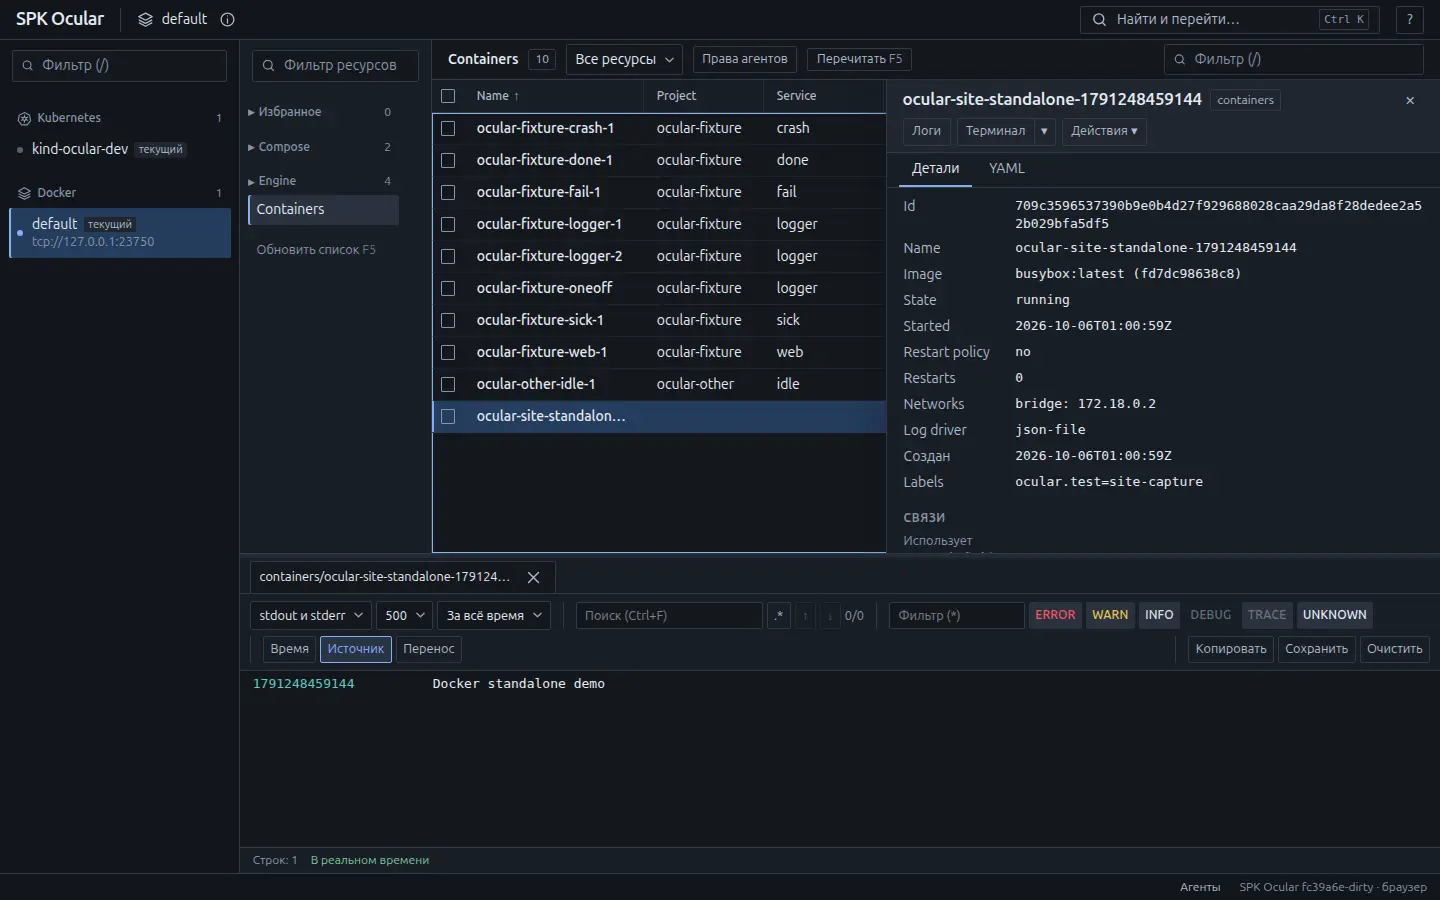
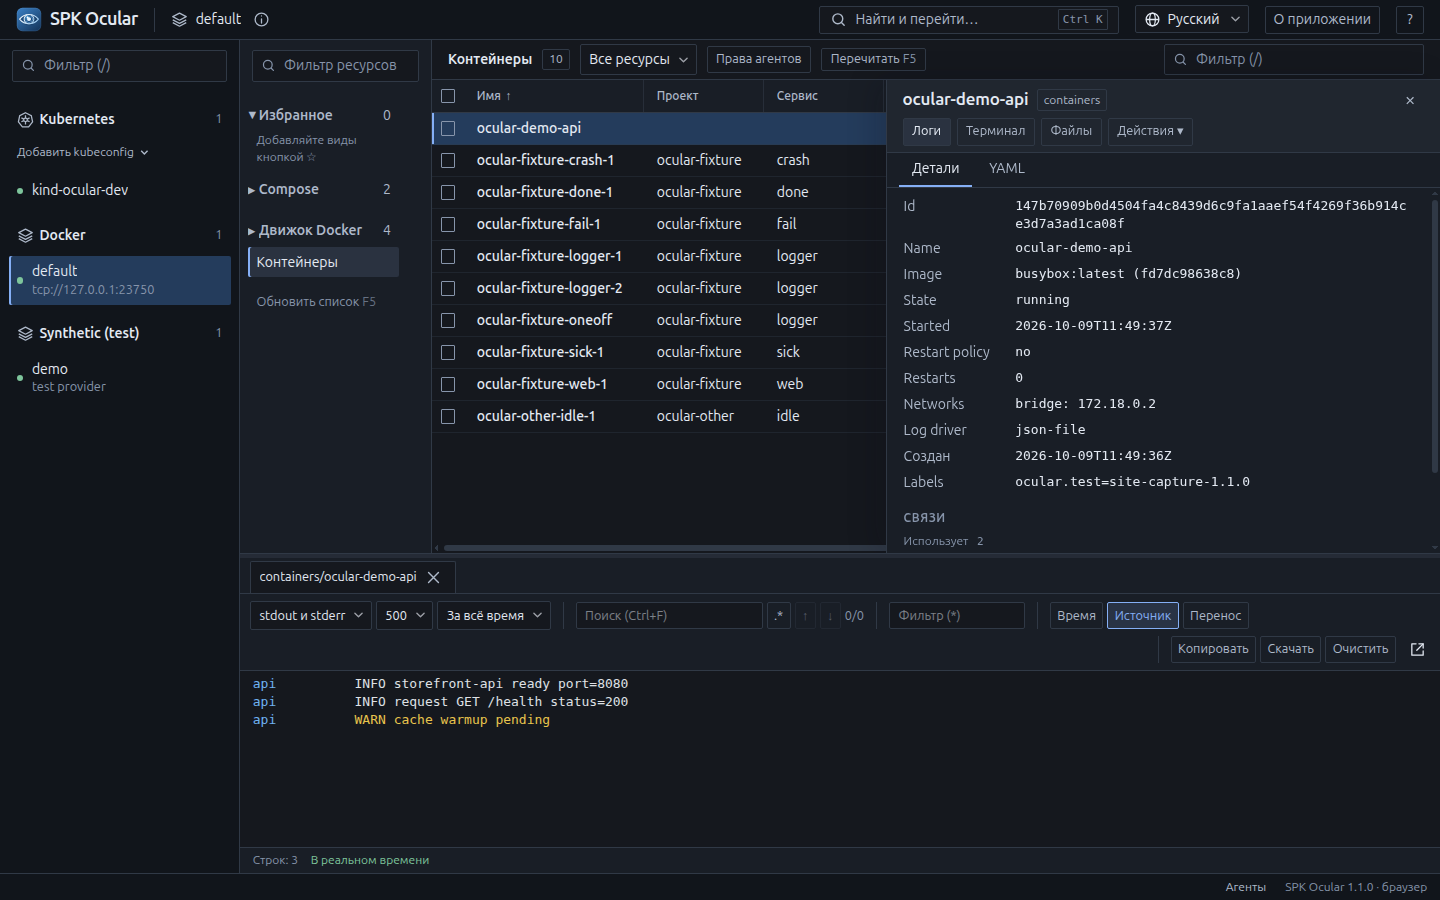
Refresh website copy and every product screenshot for 1.1.0

diff --git a/src/i18n/copy.ts b/src/i18n/copy.ts
@@ -20,20 +20,20 @@ export const en = {
   facts: [['Kubernetes + Docker', 'One place for daily operations'], ['No account required', 'Direct access from your computer'], ['Helm built in', 'No separate Helm CLI']],
   overview: 'From “what failed?” to “what next?”', overviewText: 'The details you need to investigate and act, without piecing together a dozen separate windows.',
   workflows: [
-    { label: '01 / INVESTIGATE', title: 'Find the workload that needs you.', text: 'Spot unhealthy resources, open related objects and inspect their configuration. See when permissions or connection errors prevent a complete picture.', points: ['Resource health, events and relationships', 'Namespace selection, search and favorites', 'YAML and live resource details'], image: 'health', alt: 'SPK Ocular Problems view on a local Kubernetes demonstration cluster', link: 'Explore resource inspection' },
-    { label: '02 / TROUBLESHOOT', title: 'Keep the evidence in view.', text: 'Follow logs from related workloads, filter the noise and search for the message that matters. Open a terminal or forward a service port when you need to go deeper.', points: ['Multiple log sources, search and text filters', 'Terminal tabs alongside your resources', 'Port forwarding to local services'], image: 'logs', alt: 'SPK Ocular with Kubernetes pod details and live application logs', link: 'Explore logs and tools' },
+    { label: '01 / INVESTIGATE', title: 'Find the workload that needs you.', text: 'Spot unhealthy resources, open related objects and inspect their configuration. See when permissions or connection errors prevent a complete picture.', points: ['Resource health, events and relationships', 'Namespace selection, search and favorites', 'Deployment revision history and read-only YAML comparison'], image: 'health', alt: 'SPK Ocular Problems view on a local Kubernetes demonstration cluster', link: 'Explore resource inspection' },
+    { label: '02 / TROUBLESHOOT', title: 'Keep the evidence in view.', text: 'Follow logs from related workloads, filter the noise and search for the message that matters. Open a terminal or forward a service port when you need to go deeper.', points: ["All log levels, text filters and search", "Separate log windows and plain-text exports", "Terminals, container selection and local port forwarding"], image: 'logs', alt: 'SPK Ocular with Kubernetes pod details and live application logs', link: 'Explore logs and tools' },
     { label: '03 / SHIP & RECOVER', title: 'Helm, from install to rollback.', text: 'Browse charts, choose a version and edit values. Review an upgrade before you run it, inspect release history or roll back to an earlier revision.', points: ['Chart repositories and OCI registries', 'Install, upgrade, rollback and uninstall', 'Embedded Helm. No separate CLI required.'], image: 'helm', alt: 'SPK Ocular Helm release details with values and revision history', link: 'Explore Helm' },
   ],
-  filesLabel: "CONTAINER FILES / DEVELOPMENT BUILD",
+  filesLabel: "CONTAINER FILES",
   filesTitle: "Browse folders. Edit files in place.",
-  filesText: "Open a Docker container or a Kubernetes pod, navigate its folders and edit text files without switching to a terminal.",
-  filesPoints: ["Syntax highlighting for common code and configuration formats", "UTF-8 text files up to 2 MiB", "Save to the container, with unsaved edits and external changes checked"],
-  filesBoundary: "Coming in the next release. Requires a running Linux container with sh and standard file utilities; minimal images may not provide them.",
-  filesAlt: "SPK Ocular container file inspector with folders and a highlighted YAML editor",
+  filesText: "Browse Docker containers and Kubernetes Pods, follow symlink targets and edit configuration files in a cached folder tree. Copy whole files or folders to your computer in the desktop app.",
+  filesPoints: ["Cached folders, entry counts and symlink navigation", "Syntax highlighting and UTF-8 editing up to 2 MiB", "Save with unsaved-edit protection and external-change checks", "Desktop downloads with a native destination-directory chooser"],
+  filesBoundary: "Requires a running Linux container: sh for browsing, readlink for symlinks and tar for downloads. Native file and folder copies are streamed without the editor’s 2 MiB limit; existing destination names are not overwritten. Browser-mode downloads require the desktop app.",
+  filesAlt: "SPK Ocular with an expanded application folder tree and highlighted YAML configuration",
   filesCaption: "Actual app · local Docker demo",
   toolsTitle: 'The everyday tools, already here.',
   tools: [["Quick navigation · Ctrl+K", "Jump to a view, environment, namespace, resource in the current table or recently opened object. Use Command+K on macOS."], ['Kubernetes resources', 'Pods, deployments, services and custom resources, with details and relationships.'], ['Docker', 'Inspect standalone containers alongside Compose projects and services. Follow logs, open a terminal and review container actions.'], ['Reviewed changes', 'Inspect a change before applying it. Existing infrastructure permissions still apply.'], ['A workspace that remembers', 'Keep namespace selections, filters, favorites and column widths between visits.']],
-  gallery: 'A closer look at your next workspace.', galleryText: 'Real screens from the current development build. Demo data, not product mockups.',
+  gallery: 'A closer look at your next workspace.', galleryText: "Real screens from SPK Ocular 1.1.0. Demo data, not product mockups.",
   galleryTabs: ['Workloads', 'Logs & details', 'Helm releases', 'Docker containers'],
   galleryAlts: ['Kubernetes pods and health in SPK Ocular on a local demo cluster', 'Kubernetes resource details and application logs in SPK Ocular', 'Helm release values in SPK Ocular using a simulated release', 'Standalone Docker container and Compose containers in SPK Ocular on a local demo engine'],
   agentLabel: 'YOUR AGENTS. YOUR RULES.', agentTitle: 'Give your agent useful access. Keep control of changes.',
@@ -75,20 +75,20 @@ export const ru: Copy = {
   facts: [['Kubernetes + Docker', 'Единое рабочее пространство'], ['Без аккаунта', 'Прямой доступ с вашего компьютера'], ['Helm уже внутри', 'Без отдельной установки CLI']],
   overview: 'От «что сломалось?» к «что делать?»', overviewText: 'Ресурсы, события и инструменты для диагностики рядом. Не нужно собирать картину из десятка отдельных окон.',
   workflows: [
-    { label: '01 / ДИАГНОСТИКА', title: 'Найдите то, что требует внимания.', text: 'Замечайте проблемы в ресурсах, переходите к связанным объектам и проверяйте конфигурацию. Если права доступа или ошибки соединения мешают получить данные, вы увидите это в интерфейсе.', points: ['Состояние ресурсов, события и связи', 'Выбор пространств имён, поиск и избранное', 'YAML и актуальные сведения об объектах'], image: 'health', alt: 'Раздел Problems в SPK Ocular с ресурсами локального демостенда Kubernetes', link: 'Подробнее о работе с ресурсами' },
-    { label: '02 / ОТЛАДКА', title: 'Логи рядом. Причина ближе.', text: 'Смотрите логи связанных ресурсов, убирайте лишнее фильтрами и находите нужное сообщение. Открывайте терминал или пробрасывайте порт сервиса, чтобы проверить гипотезу.', points: ['Несколько источников логов, поиск и фильтры', 'Вкладки терминала рядом с ресурсами', 'Проброс портов для доступа к сервисам'], image: 'logs', alt: 'Карточка pod Kubernetes и живые логи приложения в SPK Ocular', link: 'Подробнее о логах и инструментах' },
+    { label: '01 / ДИАГНОСТИКА', title: 'Найдите то, что требует внимания.', text: 'Замечайте проблемы в ресурсах, переходите к связанным объектам и проверяйте конфигурацию. Если права доступа или ошибки соединения мешают получить данные, вы увидите это в интерфейсе.', points: ['Состояние ресурсов, события и связи', 'Выбор пространств имён, поиск и избранное', 'История ревизий Deployment и сравнение YAML без редактирования'], image: 'health', alt: 'Раздел Problems в SPK Ocular с ресурсами локального демостенда Kubernetes', link: 'Подробнее о работе с ресурсами' },
+    { label: '02 / ОТЛАДКА', title: 'Логи рядом. Причина ближе.', text: 'Смотрите логи связанных ресурсов, убирайте лишнее фильтрами и находите нужное сообщение. Открывайте терминал или пробрасывайте порт сервиса, чтобы проверить гипотезу.', points: ["Все уровни логов, текстовые фильтры и поиск", "Отдельные окна логов и экспорт обычного текста", "Терминалы, выбор контейнера и локальный проброс портов"], image: 'logs', alt: 'Карточка pod Kubernetes и живые логи приложения в SPK Ocular', link: 'Подробнее о логах и инструментах' },
     { label: '03 / РЕЛИЗЫ', title: 'Helm: от установки до отката.', text: 'Выбирайте чарт и версию, редактируйте values и проверяйте обновление перед запуском. История релизов и откат к предыдущей ревизии доступны в том же окне.', points: ['Репозитории чартов и OCI-реестры', 'Установка, обновление, откат и удаление', 'Helm встроен. Отдельный CLI не нужен.'], image: 'helm', alt: 'Карточка релиза Helm в SPK Ocular со значениями и историей ревизий', link: 'Подробнее о Helm' },
   ],
-  filesLabel: "ФАЙЛЫ КОНТЕЙНЕРА / СБОРКА ИЗ ИСХОДНИКОВ",
+  filesLabel: "ФАЙЛЫ КОНТЕЙНЕРА",
   filesTitle: "Папки перед глазами. Файлы под рукой.",
-  filesText: "Откройте контейнер Docker или pod Kubernetes, просмотрите его папки и отредактируйте текстовый файл прямо в Ocular.",
-  filesPoints: ["Подсветка популярных языков и форматов конфигурации", "Текстовые файлы UTF-8 до 2 МиБ", "Сохранение в контейнер с защитой черновика и проверкой внешних изменений"],
-  filesBoundary: "В следующем релизе. Нужен работающий Linux-контейнер с sh и стандартными файловыми утилитами; в минимальных образах их может не быть.",
-  filesAlt: "Файловый инспектор SPK Ocular: папки контейнера и редактор YAML с подсветкой",
+  filesText: "Просматривайте контейнеры Docker и Pod’ы Kubernetes, переходите по символьным ссылкам и редактируйте конфигурацию в дереве с кешированием папок. В desktop-приложении копируйте целые файлы и папки на компьютер.",
+  filesPoints: ["Кеширование папок, счётчики элементов и переход по ссылкам", "Подсветка синтаксиса и редактирование UTF-8 файлов до 2 МиБ", "Сохранение с защитой черновика и проверкой внешних изменений", "Скачивание в desktop-приложении с системным выбором каталога"],
+  filesBoundary: "Нужен работающий Linux-контейнер: sh для просмотра, readlink для ссылок и tar для скачивания. Файлы и папки копируются потоком без ограничения редактора в 2 МиБ; существующие имена не перезаписываются. Для скачивания в браузерном режиме требуется desktop-приложение.",
+  filesAlt: "SPK Ocular: раскрытое дерево папок приложения и конфигурация YAML с подсветкой",
   filesCaption: "Настоящее приложение · локальный стенд Docker",
   toolsTitle: 'Рабочие инструменты уже на месте.',
   tools: [["Быстрый переход · Ctrl+K", "Переходите к разделу, окружению, пространству имён, ресурсу в текущей таблице или недавно открытому объекту. На macOS используйте Command+K."], ['Ресурсы Kubernetes', 'Pods, deployments, services и пользовательские ресурсы с подробностями и связями.'], ['Docker', 'Отдельные контейнеры и проекты с сервисами Compose. Просматривайте логи, открывайте терминал и проверяйте действия с контейнерами.'], ['Проверка изменений', 'Просматривайте изменения перед применением. Права доступа инфраструктуры продолжают действовать.'], ['Рабочее место с памятью', 'Выбранные пространства имён, фильтры, избранное и ширины колонок сохраняются.']],
-  gallery: 'Посмотрите, как это устроено.', galleryText: 'Реальные экраны текущей сборки разработки. Демонстрационные данные, не макеты продукта.',
+  gallery: 'Посмотрите, как это устроено.', galleryText: "Настоящие экраны SPK Ocular 1.1.0. Демонстрационные данные, а не макеты интерфейса.",
   galleryTabs: ['Рабочие нагрузки', 'Логи и детали', 'Релизы Helm', 'Контейнеры Docker'],
   galleryAlts: ['Pods Kubernetes и их состояния в SPK Ocular на локальном демостенде', 'Детали ресурса Kubernetes и логи приложения в SPK Ocular', 'Значения тестового релиза Helm в SPK Ocular', 'Отдельный контейнер Docker и контейнеры Compose в SPK Ocular на локальном демостенде'],
   agentLabel: 'ВАШИ АГЕНТЫ. ВАШИ ПРАВИЛА.', agentTitle: 'Дайте агенту контекст. Оставьте контроль себе.',

diff --git a/README.md b/README.md
@@ -63,6 +63,15 @@ and large product screens, [Lens](https://lenshq.io/) for product hierarchy, and
 [K8Studio](https://k8studio.io/) for investigation workflows (reviewed 2026-10-06).
 No vendor claims, customer logos, testimonials or performance statistics are reused.
 
+## Screenshot source
+
+All twelve RU/EN product screenshots show SPK Ocular 1.1.0 on isolated fixtures.
+Kubernetes captures use the owned ocular-dev demo cluster; Docker captures use the
+verified ocular-dind engine, and Helm uses the explicitly labeled synthetic
+release. The file screen shows an actual /app project with config, scripts, src,
+public, tests, hidden files and a symlink, with application.yaml open.
+Versioned image URLs prevent old cached screenshots from surviving the update.
+
 ## Develop and verify
 
 Use Node 22 and pnpm 10.33.0. Install with `pnpm install --frozen-lockfile`.

diff --git a/docs/localization.md b/docs/localization.md
@@ -69,3 +69,10 @@ external authentication helpers configured in kubeconfig. The tools section
 explains Ctrl+K/Command+K navigation to views, environments, namespaces, current
 table resources and recent objects. These capabilities are present in v1.0.1.
 Keep these descriptions factual, with no competitor or exclusivity claims.
+
+The 1.1.0 copy describes container file browsing/editing and native folder/file
+copies, Deployment revision comparison, native log windows and text exports.
+Both RU/EN screenshot sets are freshly captured; the other six locales retain
+the explicit English-UI notice. Preserve sh/readlink/tar requirements, the UTF-8
+editor limit of 2 MiB, desktop-only downloads and refusal to overwrite existing
+names. Screenshot and social-image URLs carry the 1.1.0 version query.
